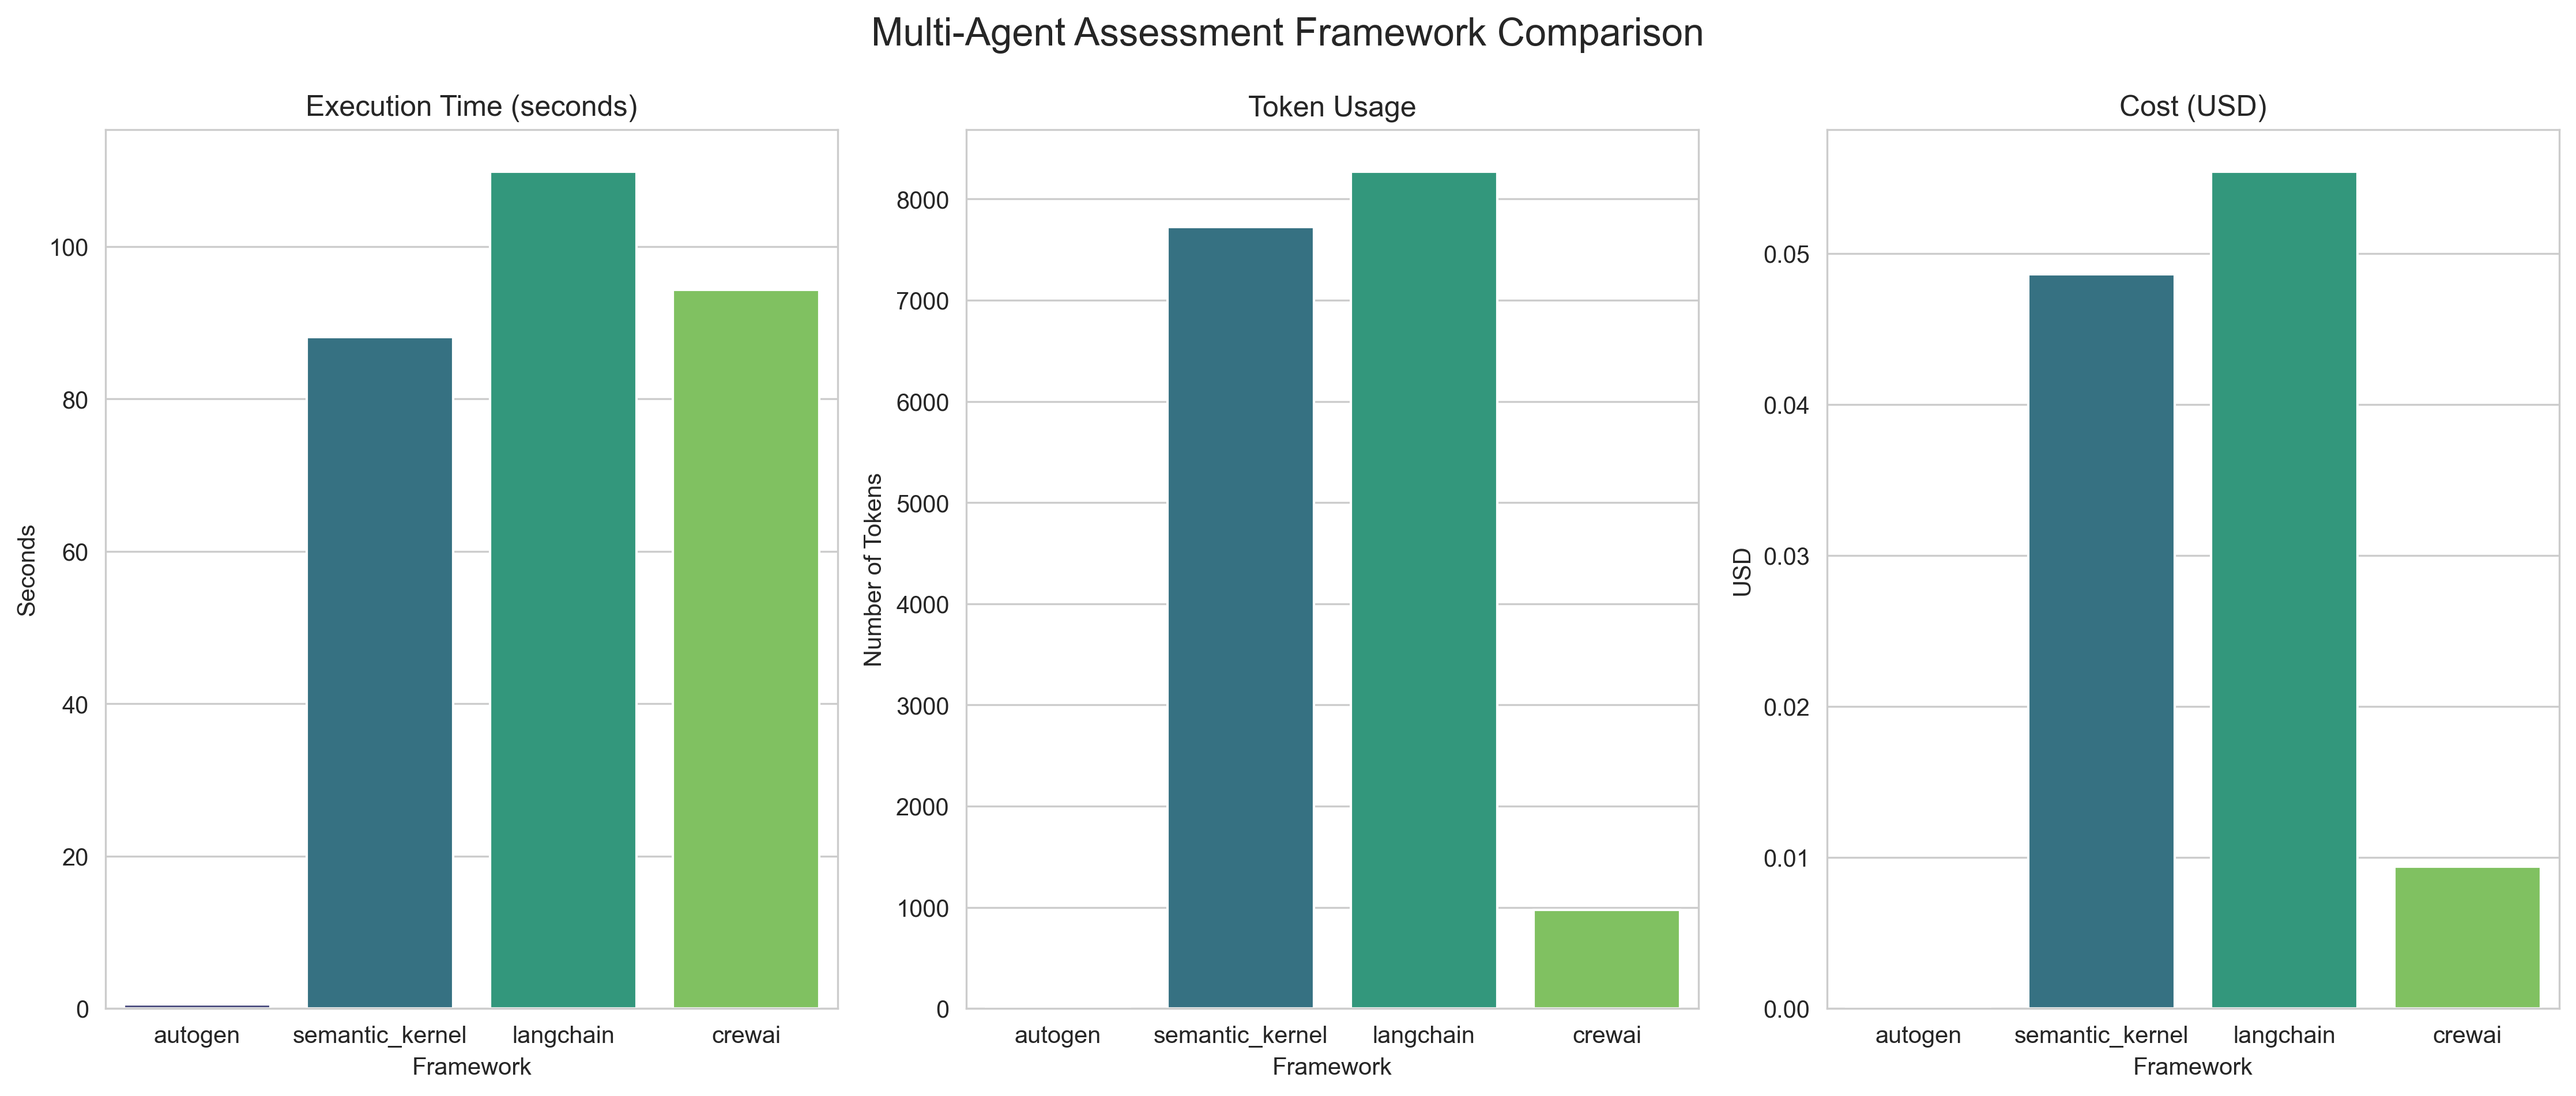
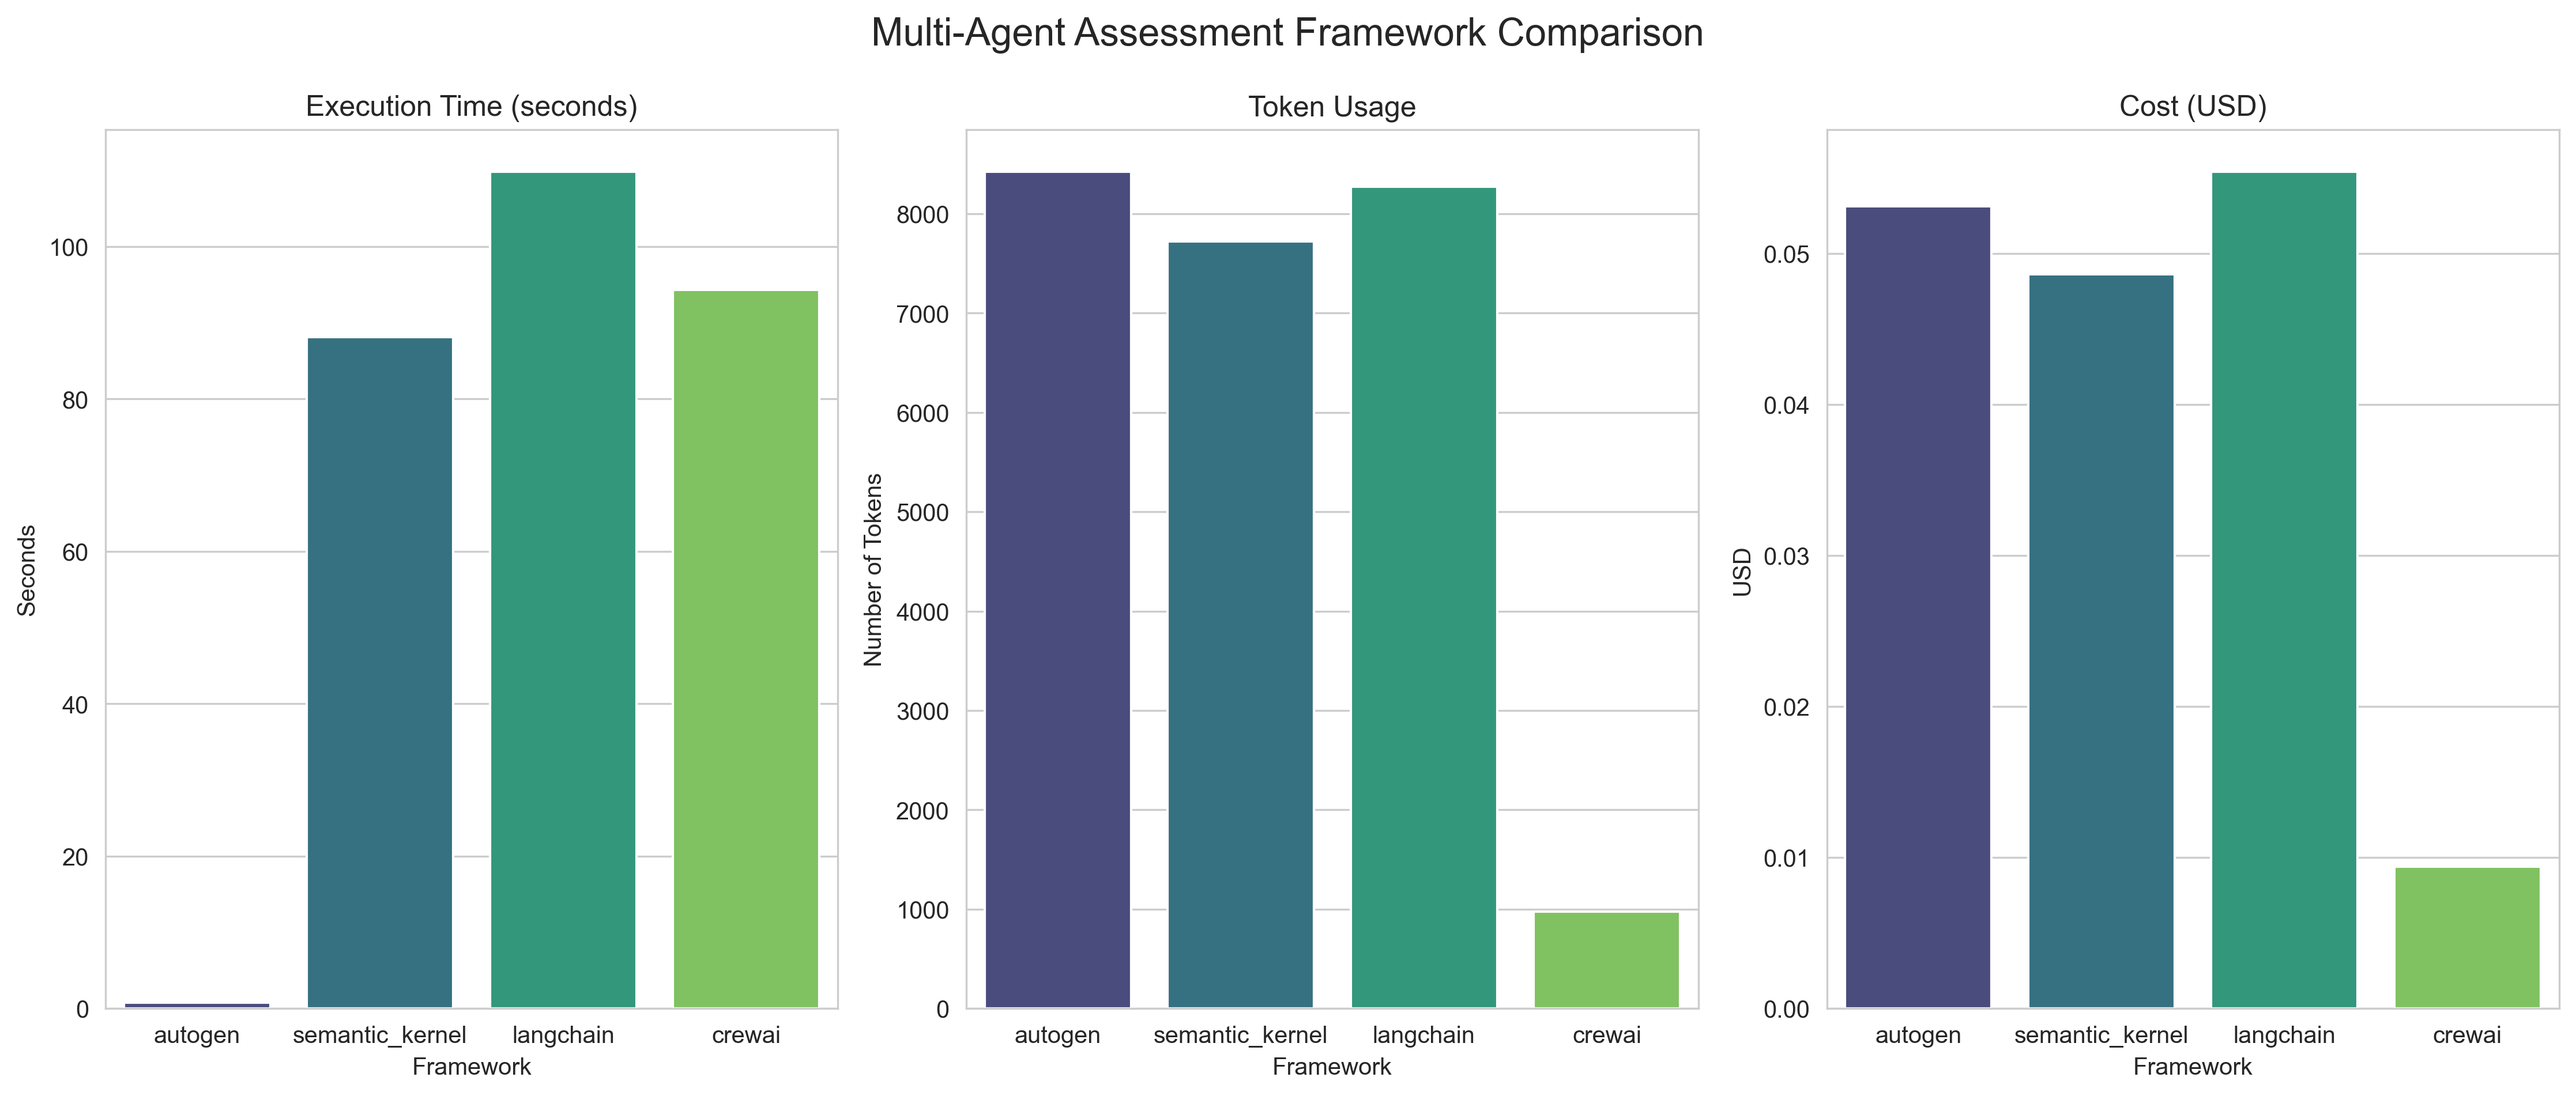
Update framework comparison data with new metrics
- Updated time, tokens, and cost values for autogen framework
- Regenerated comparison table and bar chart visualizations

diff --git a/export_comparison.py b/export_comparison.py
@@ -15,9 +15,9 @@ load_dotenv()
 # Create a DataFrame with the comparison data
 data = {
     'Framework': ['autogen', 'semantic_kernel', 'langchain', 'crewai'],
-    'Time (s)': [0.57, 88.09, 109.81, 94.30],
-    'Tokens': [0, 7721, 8270, 974],
-    'Cost ($)': [0.0000, 0.0486, 0.0554, 0.0094]
+    'Time (s)': [0.80, 88.09, 109.81, 94.30],
+    'Tokens': [8423, 7721, 8270, 974],
+    'Cost ($)': [0.0531, 0.0486, 0.0554, 0.0094]
 }
 
 df = pd.DataFrame(data)
